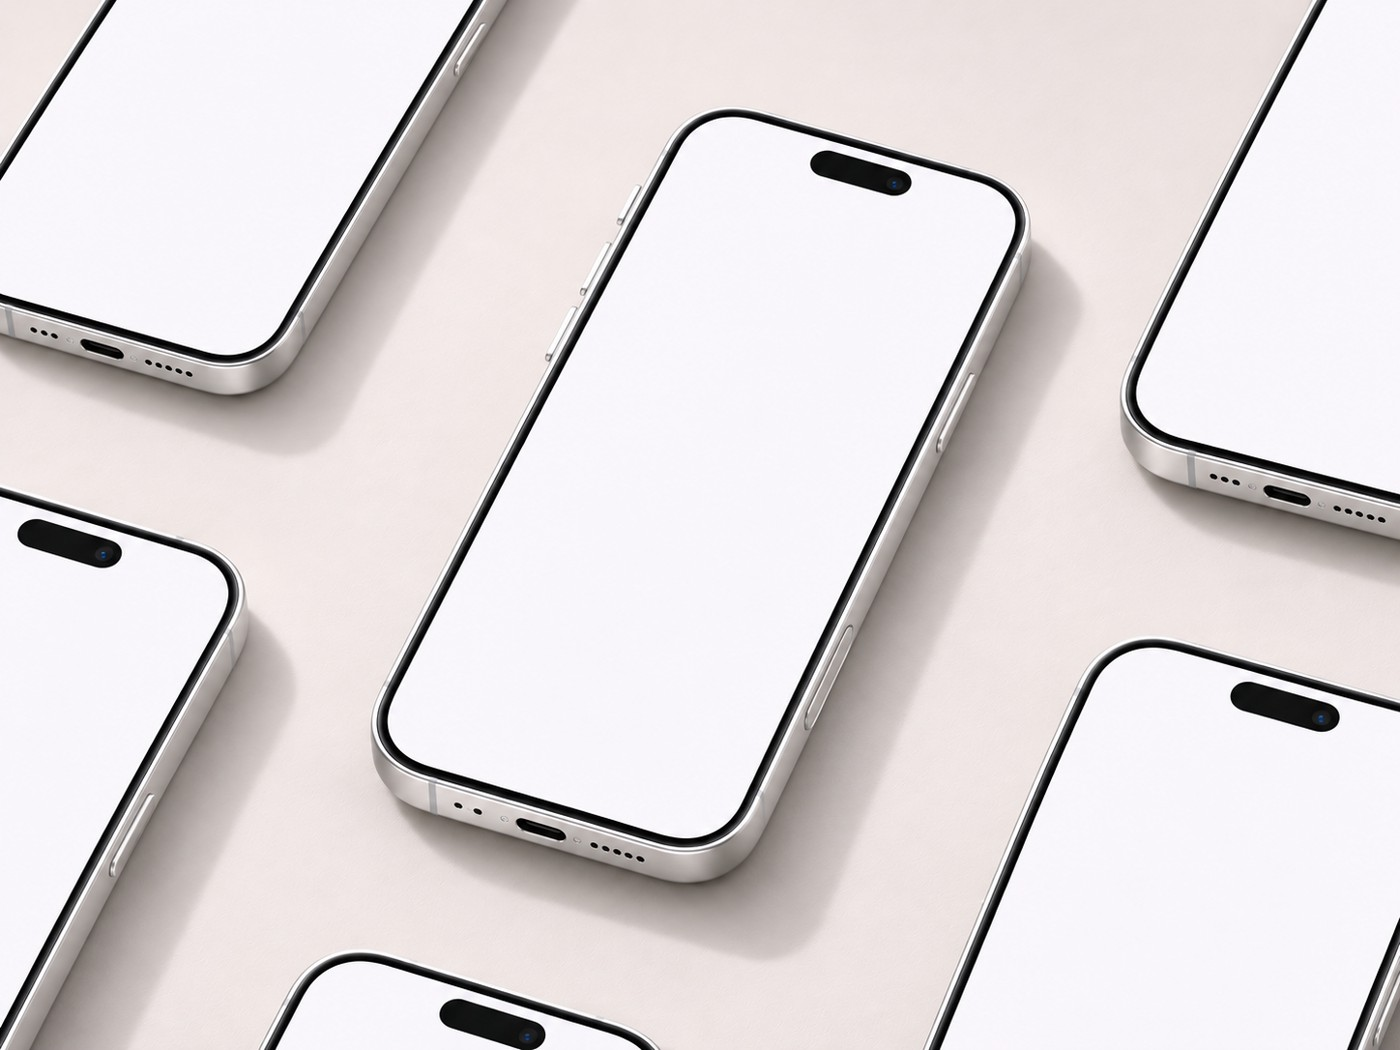
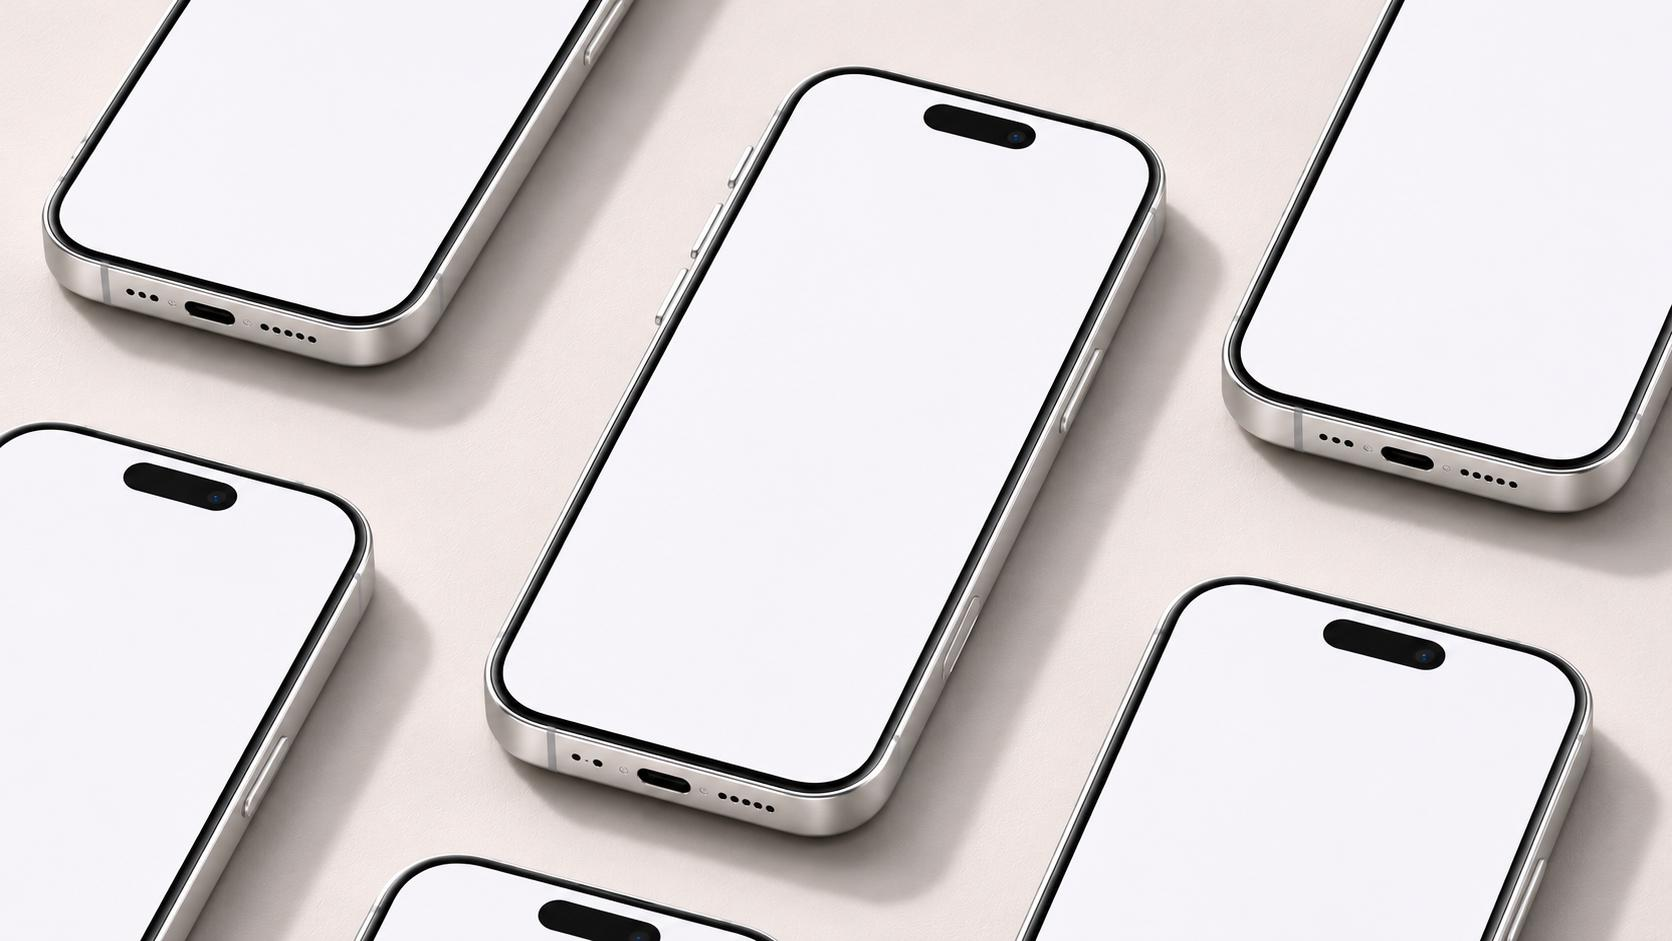
catalog: replace provisional EX09 with new 16:9 iPhone image
Swap only EX09 image and metadata; preserve the original 32 reviewed and other 8 provisional. JPEG 1672x941, unapproved; full preflight PASS. Cache-bust EX09 image URL.

diff --git a/docs/DESIGN_DECISIONS.md b/docs/DESIGN_DECISIONS.md
@@ -197,3 +197,9 @@
 - [決定] Same phone model across all instances, blank white front screens UP, physically thin rigid frame, generous horizontal/vertical margins, oblique single-camera imaging, edge cropping accepted without squeezing all devices into frame.
 - [暫定] Added `iphone-tile-detail-closeup`, one explicit fixture `repeated-ivory-detail-vertical-half-offset.txt`, and **EX09** provisional catalog still supplied through ChatGPT ImageGen. The source is 1448×1086 (4:3), while target fixture is 16:9. Exact vertical 50% placement, hardware detail and camera angle are **UNVERIFIED**; this image is neither direct fixture execution nor QA approval.
 - [未決] Pixel-exact physical column offset and full 16:9 photo require a separate deterministic placement or reviewed render. No API cost or secret involved in this registration.
+
+## 2026-11-12 — EX09 16:9 preview replacement
+
+- [決定] Replaced only EX09's provisional catalog JPEG using the new user-selected ChatGPT-generated 1672×941 PNG, preserving its original composition. JPEG encoding is for gallery delivery; output retains 1672×941 dimensions (approximately 16:9).
+- [決定] The card's stale 4:3 warning is removed; 16:9 preview metadata and natural preview aspect ratio are updated. All other eight provisional images and 32 reviewed images remain untouched.
+- [未確認] Accurate vertical 50% long-body offset, iPhone hardware details, and prompt-to-image fidelity are still **unverified**. The image remains **仮検証・未承認**. This replacement was not an API execution of the committed fixture.
